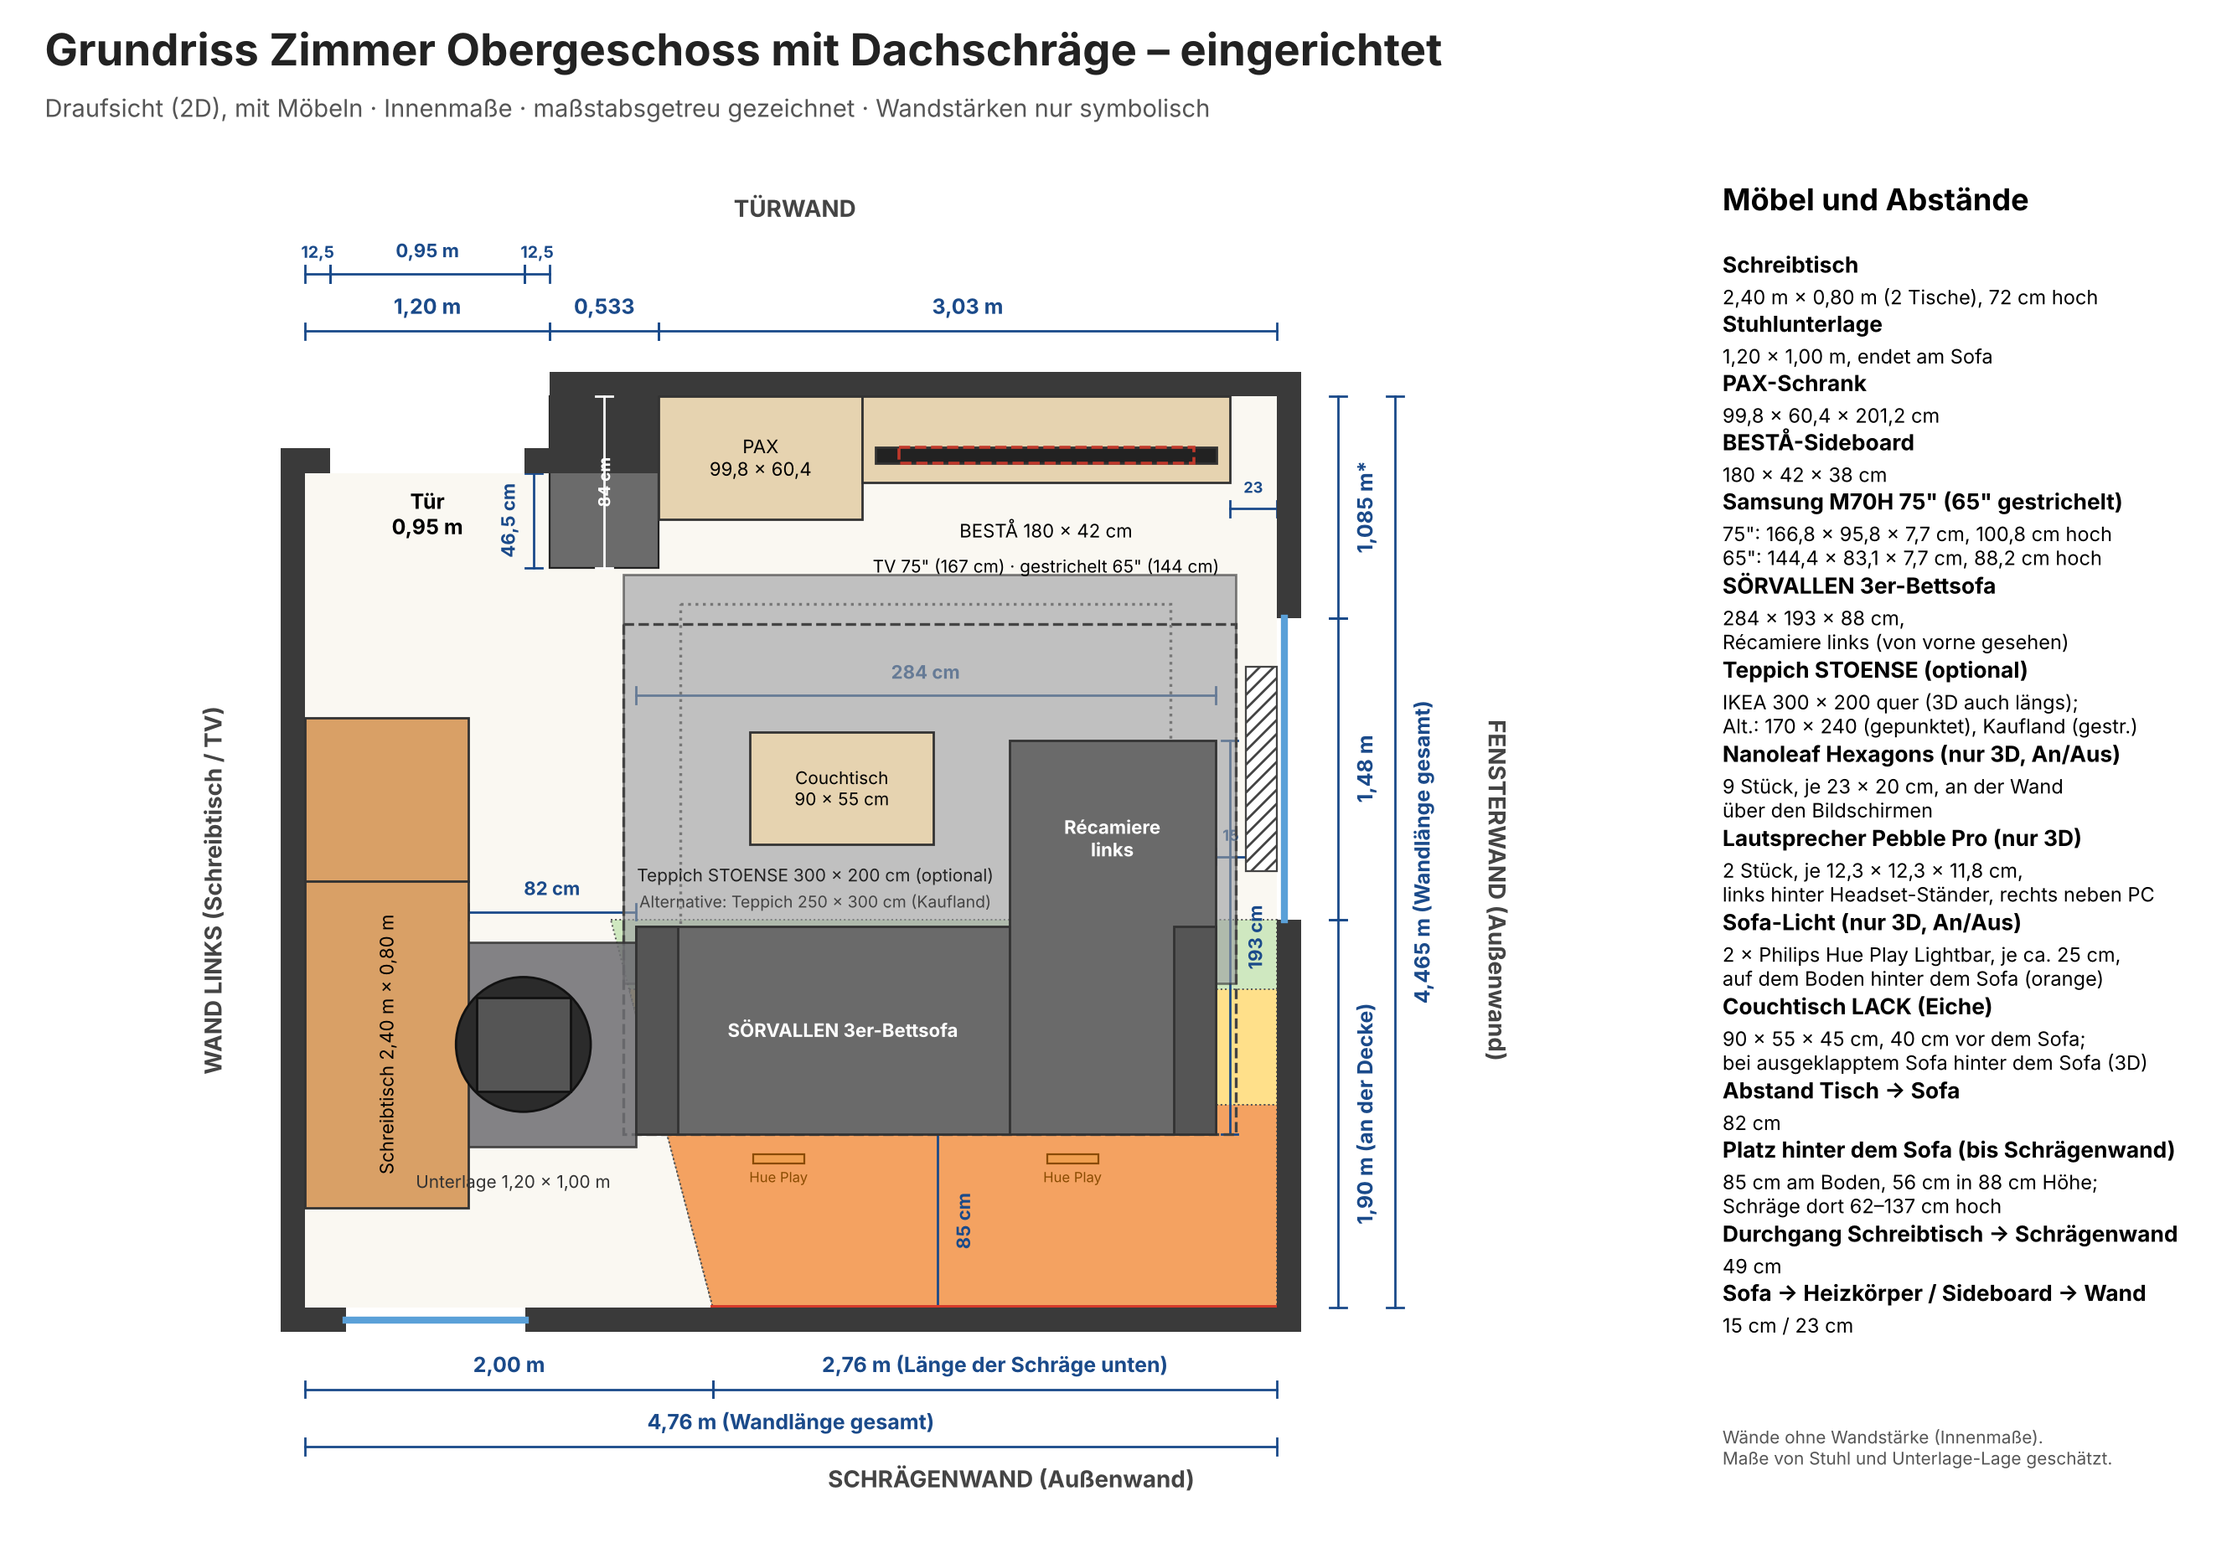
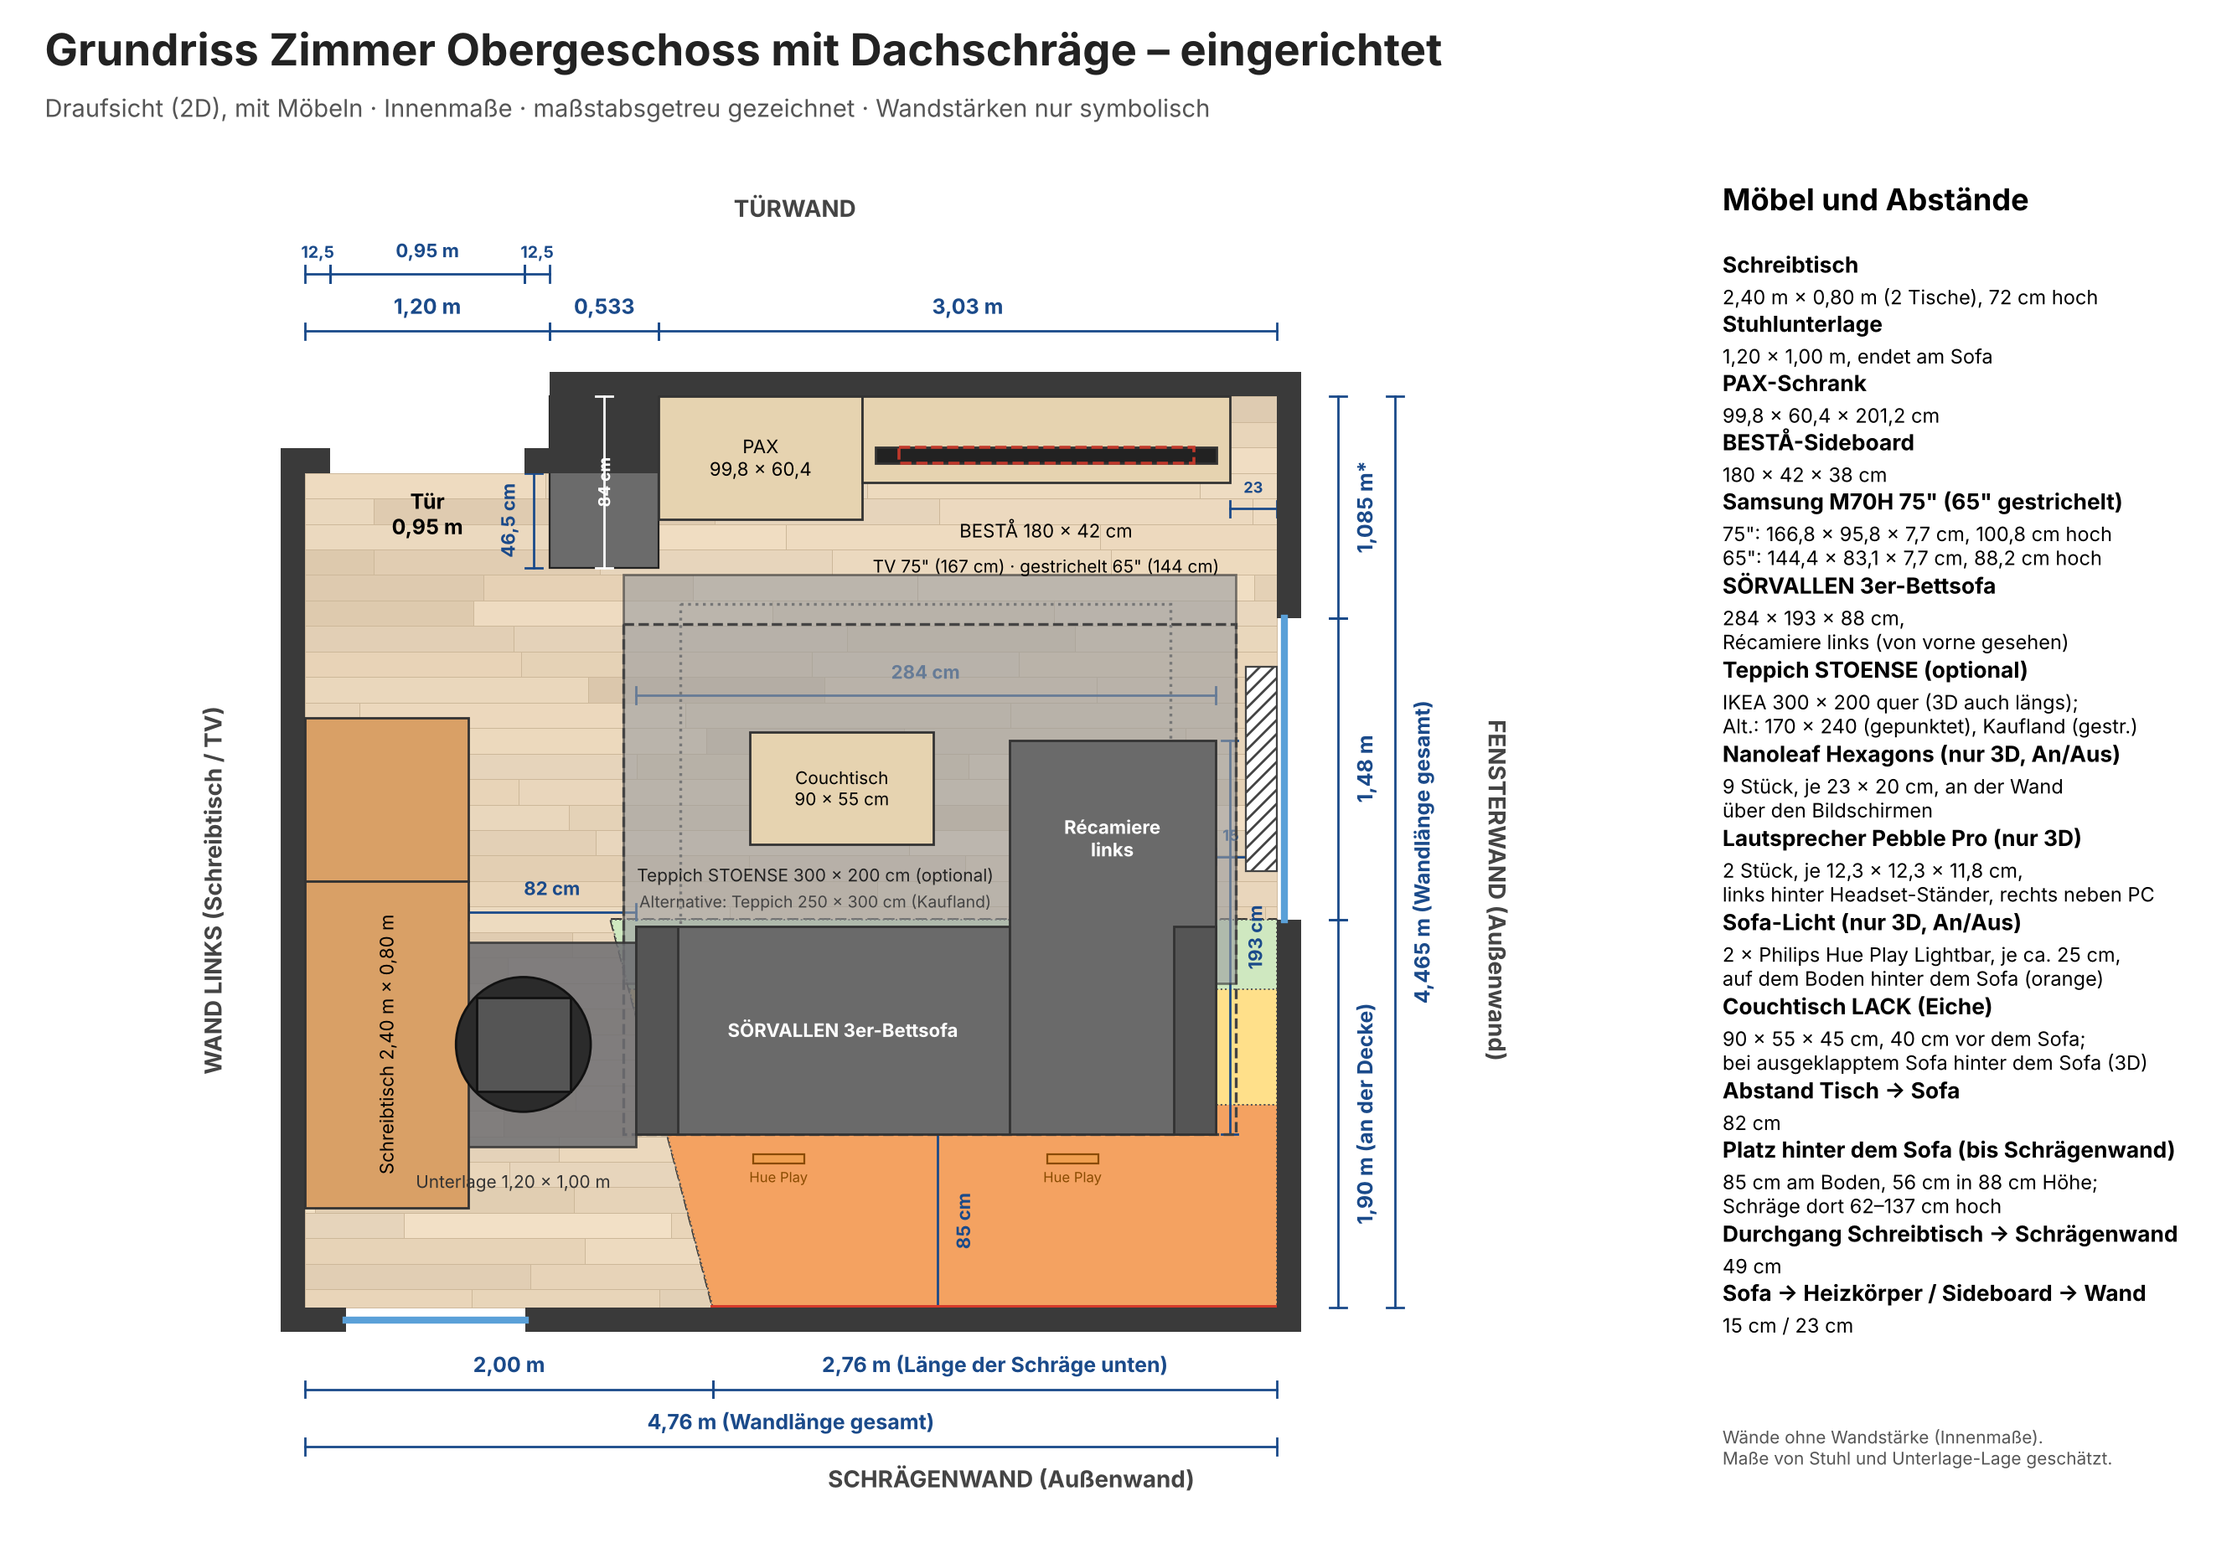
Dielenboden (3D-Textur, Grundriss, Titelbild)
Claude-Session: https://claude.ai/code/session_01Hf3Bkowp5NFKLbRns8Nosg

Changed region(s): [[0.1243, 0.2495, 0.5906, 0.6237], [0.1243, 0.7172, 0.3419, 0.8419], [0.4041, 0.4677, 0.4663, 0.5301]]

diff --git a/leer.html b/leer.html
@@ -107,6 +107,24 @@ addTris([[A,B,C]],CS);            // Übergang (Diagonale)
 // Decke (L-Form) und Boden
 addTris(shapeTris([[0,0],[1.733,0],[1.733,-NY],[W,-NY],[W,YS],[BX,YS],[BX,D],[0,D]],null,function(u,v){return [u,v,H];}),0xfbfbf8);
 var floor=addTris(shapeTris([[0,0],[1.733,0],[1.733,-NY],[W,-NY],[W,D],[0,D]],null,function(u,v){return [u,v,0];}),0xb08455);
+// Dielenboden (Textur im Browser erzeugt): Dielen 12,5 cm breit, laufen Richtung Schreibtischwand (entlang x)
+try{(function(){
+  var cw=1024,ch=960,PPX=cw/W,c=document.createElement('canvas');c.width=cw;c.height=ch;var g=c.getContext('2d');
+  var sd=11;function rnd(){sd|=0;sd=sd+0x6D2B79F5|0;var t=Math.imul(sd^sd>>>15,1|sd);t=t+Math.imul(t^t>>>7,61|t)^t;return((t^t>>>14)>>>0)/4294967296;}
+  g.fillStyle='#5a3a22';g.fillRect(0,0,cw,ch);
+  var pw=0.125*PPX,rows=Math.ceil(ch/pw);
+  for(var r=0;r<rows;r++){var y0=r*pw,cur=-rnd()*1.0*PPX;
+    while(cur<cw){var ln=(0.9+rnd()*0.8)*PPX,x0=Math.max(0,cur),x1=Math.min(cw,cur+ln);cur+=ln;if(x1<=x0)continue;
+      var t=rnd(),k=0.93+0.14*rnd(),R=Math.round((130+20*t)*k),G=Math.round((87+13*t)*k),B=Math.round((52+7*t)*k);
+      g.fillStyle='rgb('+R+','+G+','+B+')';g.fillRect(x0,y0,x1-x0,pw);
+      for(var i=0;i<9;i++){var gy=y0+rnd()*pw,l=(0.15+rnd()*0.6)*(x1-x0),gx=x0+rnd()*((x1-x0)-l);g.fillStyle=rnd()<0.5?'rgba(40,20,8,0.16)':'rgba(255,220,170,0.10)';g.fillRect(gx,gy,l,1+rnd()*1.5);}
+      g.fillStyle='rgba(30,15,5,0.55)';g.fillRect(x0,y0,x1-x0,1.5);g.fillRect(x0,y0,1.5,pw);}}
+  var tx=new THREE.CanvasTexture(c);tx.anisotropy=8;
+  var pa=floor.geometry.getAttribute('position'),uv=[];
+  for(var i=0;i<pa.count;i++){uv.push(pa.getX(i)/W,(pa.getZ(i)+NY)/(D+NY));}
+  floor.geometry.setAttribute('uv',new THREE.Float32BufferAttribute(uv,2));
+  floor.material.map=tx;floor.material.color.setHex(0xffffff);floor.material.needsUpdate=true;
+})();}catch(e){}
 // Zonen
 var zones=new THREE.Group();zones.visible=false;scene.add(zones);
 function dAt(h){return (h-K)*SD/(H-K);}

diff --git a/leer_mobil.html b/leer_mobil.html
@@ -124,6 +124,24 @@ addTris([[A,B,C]],CS);            // Übergang (Diagonale)
 // Decke (L-Form) und Boden
 addTris(shapeTris([[0,0],[1.733,0],[1.733,-NY],[W,-NY],[W,YS],[BX,YS],[BX,D],[0,D]],null,function(u,v){return [u,v,H];}),0xfbfbf8);
 var floor=addTris(shapeTris([[0,0],[1.733,0],[1.733,-NY],[W,-NY],[W,D],[0,D]],null,function(u,v){return [u,v,0];}),0xb08455);
+// Dielenboden (Textur im Browser erzeugt): Dielen 12,5 cm breit, laufen Richtung Schreibtischwand (entlang x)
+try{(function(){
+  var cw=1024,ch=960,PPX=cw/W,c=document.createElement('canvas');c.width=cw;c.height=ch;var g=c.getContext('2d');
+  var sd=11;function rnd(){sd|=0;sd=sd+0x6D2B79F5|0;var t=Math.imul(sd^sd>>>15,1|sd);t=t+Math.imul(t^t>>>7,61|t)^t;return((t^t>>>14)>>>0)/4294967296;}
+  g.fillStyle='#5a3a22';g.fillRect(0,0,cw,ch);
+  var pw=0.125*PPX,rows=Math.ceil(ch/pw);
+  for(var r=0;r<rows;r++){var y0=r*pw,cur=-rnd()*1.0*PPX;
+    while(cur<cw){var ln=(0.9+rnd()*0.8)*PPX,x0=Math.max(0,cur),x1=Math.min(cw,cur+ln);cur+=ln;if(x1<=x0)continue;
+      var t=rnd(),k=0.93+0.14*rnd(),R=Math.round((130+20*t)*k),G=Math.round((87+13*t)*k),B=Math.round((52+7*t)*k);
+      g.fillStyle='rgb('+R+','+G+','+B+')';g.fillRect(x0,y0,x1-x0,pw);
+      for(var i=0;i<9;i++){var gy=y0+rnd()*pw,l=(0.15+rnd()*0.6)*(x1-x0),gx=x0+rnd()*((x1-x0)-l);g.fillStyle=rnd()<0.5?'rgba(40,20,8,0.16)':'rgba(255,220,170,0.10)';g.fillRect(gx,gy,l,1+rnd()*1.5);}
+      g.fillStyle='rgba(30,15,5,0.55)';g.fillRect(x0,y0,x1-x0,1.5);g.fillRect(x0,y0,1.5,pw);}}
+  var tx=new THREE.CanvasTexture(c);tx.anisotropy=8;
+  var pa=floor.geometry.getAttribute('position'),uv=[];
+  for(var i=0;i<pa.count;i++){uv.push(pa.getX(i)/W,(pa.getZ(i)+NY)/(D+NY));}
+  floor.geometry.setAttribute('uv',new THREE.Float32BufferAttribute(uv,2));
+  floor.material.map=tx;floor.material.color.setHex(0xffffff);floor.material.needsUpdate=true;
+})();}catch(e){}
 // Zonen
 var zones=new THREE.Group();zones.visible=false;scene.add(zones);
 function dAt(h){return (h-K)*SD/(H-K);}

diff --git a/eingerichtet.html b/eingerichtet.html
@@ -163,6 +163,24 @@ var slopeObjs=room.children.slice(slopeS);
 // Decke (L-Form) und Boden
 addTris(shapeTris([[0,0],[1.733,0],[1.733,-NY],[W,-NY],[W,YS],[BX,YS],[BX,D],[0,D]],null,function(u,v){return [u,v,H];}),0xfbfbf8);
 var floor=addTris(shapeTris([[0,0],[1.733,0],[1.733,-NY],[W,-NY],[W,D],[0,D]],null,function(u,v){return [u,v,0];}),0xb08455);
+// Dielenboden (Textur im Browser erzeugt): Dielen 12,5 cm breit, laufen Richtung Schreibtischwand (entlang x)
+try{(function(){
+  var cw=1024,ch=960,PPX=cw/W,c=document.createElement('canvas');c.width=cw;c.height=ch;var g=c.getContext('2d');
+  var sd=11;function rnd(){sd|=0;sd=sd+0x6D2B79F5|0;var t=Math.imul(sd^sd>>>15,1|sd);t=t+Math.imul(t^t>>>7,61|t)^t;return((t^t>>>14)>>>0)/4294967296;}
+  g.fillStyle='#5a3a22';g.fillRect(0,0,cw,ch);
+  var pw=0.125*PPX,rows=Math.ceil(ch/pw);
+  for(var r=0;r<rows;r++){var y0=r*pw,cur=-rnd()*1.0*PPX;
+    while(cur<cw){var ln=(0.9+rnd()*0.8)*PPX,x0=Math.max(0,cur),x1=Math.min(cw,cur+ln);cur+=ln;if(x1<=x0)continue;
+      var t=rnd(),k=0.93+0.14*rnd(),R=Math.round((130+20*t)*k),G=Math.round((87+13*t)*k),B=Math.round((52+7*t)*k);
+      g.fillStyle='rgb('+R+','+G+','+B+')';g.fillRect(x0,y0,x1-x0,pw);
+      for(var i=0;i<9;i++){var gy=y0+rnd()*pw,l=(0.15+rnd()*0.6)*(x1-x0),gx=x0+rnd()*((x1-x0)-l);g.fillStyle=rnd()<0.5?'rgba(40,20,8,0.16)':'rgba(255,220,170,0.10)';g.fillRect(gx,gy,l,1+rnd()*1.5);}
+      g.fillStyle='rgba(30,15,5,0.55)';g.fillRect(x0,y0,x1-x0,1.5);g.fillRect(x0,y0,1.5,pw);}}
+  var tx=new THREE.CanvasTexture(c);tx.anisotropy=8;
+  var pa=floor.geometry.getAttribute('position'),uv=[];
+  for(var i=0;i<pa.count;i++){uv.push(pa.getX(i)/W,(pa.getZ(i)+NY)/(D+NY));}
+  floor.geometry.setAttribute('uv',new THREE.Float32BufferAttribute(uv,2));
+  floor.material.map=tx;floor.material.color.setHex(0xffffff);floor.material.needsUpdate=true;
+})();}catch(e){}
 // Zonen
 var zones=new THREE.Group();zones.visible=false;scene.add(zones);
 function dAt(h){return (h-K)*SD/(H-K);}

diff --git a/eingerichtet_mobil.html b/eingerichtet_mobil.html
@@ -176,6 +176,24 @@ var slopeObjs=room.children.slice(slopeS);
 // Decke (L-Form) und Boden
 addTris(shapeTris([[0,0],[1.733,0],[1.733,-NY],[W,-NY],[W,YS],[BX,YS],[BX,D],[0,D]],null,function(u,v){return [u,v,H];}),0xfbfbf8);
 var floor=addTris(shapeTris([[0,0],[1.733,0],[1.733,-NY],[W,-NY],[W,D],[0,D]],null,function(u,v){return [u,v,0];}),0xb08455);
+// Dielenboden (Textur im Browser erzeugt): Dielen 12,5 cm breit, laufen Richtung Schreibtischwand (entlang x)
+try{(function(){
+  var cw=1024,ch=960,PPX=cw/W,c=document.createElement('canvas');c.width=cw;c.height=ch;var g=c.getContext('2d');
+  var sd=11;function rnd(){sd|=0;sd=sd+0x6D2B79F5|0;var t=Math.imul(sd^sd>>>15,1|sd);t=t+Math.imul(t^t>>>7,61|t)^t;return((t^t>>>14)>>>0)/4294967296;}
+  g.fillStyle='#5a3a22';g.fillRect(0,0,cw,ch);
+  var pw=0.125*PPX,rows=Math.ceil(ch/pw);
+  for(var r=0;r<rows;r++){var y0=r*pw,cur=-rnd()*1.0*PPX;
+    while(cur<cw){var ln=(0.9+rnd()*0.8)*PPX,x0=Math.max(0,cur),x1=Math.min(cw,cur+ln);cur+=ln;if(x1<=x0)continue;
+      var t=rnd(),k=0.93+0.14*rnd(),R=Math.round((130+20*t)*k),G=Math.round((87+13*t)*k),B=Math.round((52+7*t)*k);
+      g.fillStyle='rgb('+R+','+G+','+B+')';g.fillRect(x0,y0,x1-x0,pw);
+      for(var i=0;i<9;i++){var gy=y0+rnd()*pw,l=(0.15+rnd()*0.6)*(x1-x0),gx=x0+rnd()*((x1-x0)-l);g.fillStyle=rnd()<0.5?'rgba(40,20,8,0.16)':'rgba(255,220,170,0.10)';g.fillRect(gx,gy,l,1+rnd()*1.5);}
+      g.fillStyle='rgba(30,15,5,0.55)';g.fillRect(x0,y0,x1-x0,1.5);g.fillRect(x0,y0,1.5,pw);}}
+  var tx=new THREE.CanvasTexture(c);tx.anisotropy=8;
+  var pa=floor.geometry.getAttribute('position'),uv=[];
+  for(var i=0;i<pa.count;i++){uv.push(pa.getX(i)/W,(pa.getZ(i)+NY)/(D+NY));}
+  floor.geometry.setAttribute('uv',new THREE.Float32BufferAttribute(uv,2));
+  floor.material.map=tx;floor.material.color.setHex(0xffffff);floor.material.needsUpdate=true;
+})();}catch(e){}
 // Zonen
 var zones=new THREE.Group();zones.visible=false;scene.add(zones);
 function dAt(h){return (h-K)*SD/(H-K);}

diff --git a/interaktiv.html b/interaktiv.html
@@ -163,6 +163,24 @@ var slopeObjs=room.children.slice(slopeS);
 // Decke (L-Form) und Boden
 addTris(shapeTris([[0,0],[1.733,0],[1.733,-NY],[W,-NY],[W,YS],[BX,YS],[BX,D],[0,D]],null,function(u,v){return [u,v,H];}),0xfbfbf8);
 var floor=addTris(shapeTris([[0,0],[1.733,0],[1.733,-NY],[W,-NY],[W,D],[0,D]],null,function(u,v){return [u,v,0];}),0xb08455);
+// Dielenboden (Textur im Browser erzeugt): Dielen 12,5 cm breit, laufen Richtung Schreibtischwand (entlang x)
+try{(function(){
+  var cw=1024,ch=960,PPX=cw/W,c=document.createElement('canvas');c.width=cw;c.height=ch;var g=c.getContext('2d');
+  var sd=11;function rnd(){sd|=0;sd=sd+0x6D2B79F5|0;var t=Math.imul(sd^sd>>>15,1|sd);t=t+Math.imul(t^t>>>7,61|t)^t;return((t^t>>>14)>>>0)/4294967296;}
+  g.fillStyle='#5a3a22';g.fillRect(0,0,cw,ch);
+  var pw=0.125*PPX,rows=Math.ceil(ch/pw);
+  for(var r=0;r<rows;r++){var y0=r*pw,cur=-rnd()*1.0*PPX;
+    while(cur<cw){var ln=(0.9+rnd()*0.8)*PPX,x0=Math.max(0,cur),x1=Math.min(cw,cur+ln);cur+=ln;if(x1<=x0)continue;
+      var t=rnd(),k=0.93+0.14*rnd(),R=Math.round((130+20*t)*k),G=Math.round((87+13*t)*k),B=Math.round((52+7*t)*k);
+      g.fillStyle='rgb('+R+','+G+','+B+')';g.fillRect(x0,y0,x1-x0,pw);
+      for(var i=0;i<9;i++){var gy=y0+rnd()*pw,l=(0.15+rnd()*0.6)*(x1-x0),gx=x0+rnd()*((x1-x0)-l);g.fillStyle=rnd()<0.5?'rgba(40,20,8,0.16)':'rgba(255,220,170,0.10)';g.fillRect(gx,gy,l,1+rnd()*1.5);}
+      g.fillStyle='rgba(30,15,5,0.55)';g.fillRect(x0,y0,x1-x0,1.5);g.fillRect(x0,y0,1.5,pw);}}
+  var tx=new THREE.CanvasTexture(c);tx.anisotropy=8;
+  var pa=floor.geometry.getAttribute('position'),uv=[];
+  for(var i=0;i<pa.count;i++){uv.push(pa.getX(i)/W,(pa.getZ(i)+NY)/(D+NY));}
+  floor.geometry.setAttribute('uv',new THREE.Float32BufferAttribute(uv,2));
+  floor.material.map=tx;floor.material.color.setHex(0xffffff);floor.material.needsUpdate=true;
+})();}catch(e){}
 // Zonen
 var zones=new THREE.Group();zones.visible=false;scene.add(zones);
 function dAt(h){return (h-K)*SD/(H-K);}

diff --git a/interaktiv_mobil.html b/interaktiv_mobil.html
@@ -176,6 +176,24 @@ var slopeObjs=room.children.slice(slopeS);
 // Decke (L-Form) und Boden
 addTris(shapeTris([[0,0],[1.733,0],[1.733,-NY],[W,-NY],[W,YS],[BX,YS],[BX,D],[0,D]],null,function(u,v){return [u,v,H];}),0xfbfbf8);
 var floor=addTris(shapeTris([[0,0],[1.733,0],[1.733,-NY],[W,-NY],[W,D],[0,D]],null,function(u,v){return [u,v,0];}),0xb08455);
+// Dielenboden (Textur im Browser erzeugt): Dielen 12,5 cm breit, laufen Richtung Schreibtischwand (entlang x)
+try{(function(){
+  var cw=1024,ch=960,PPX=cw/W,c=document.createElement('canvas');c.width=cw;c.height=ch;var g=c.getContext('2d');
+  var sd=11;function rnd(){sd|=0;sd=sd+0x6D2B79F5|0;var t=Math.imul(sd^sd>>>15,1|sd);t=t+Math.imul(t^t>>>7,61|t)^t;return((t^t>>>14)>>>0)/4294967296;}
+  g.fillStyle='#5a3a22';g.fillRect(0,0,cw,ch);
+  var pw=0.125*PPX,rows=Math.ceil(ch/pw);
+  for(var r=0;r<rows;r++){var y0=r*pw,cur=-rnd()*1.0*PPX;
+    while(cur<cw){var ln=(0.9+rnd()*0.8)*PPX,x0=Math.max(0,cur),x1=Math.min(cw,cur+ln);cur+=ln;if(x1<=x0)continue;
+      var t=rnd(),k=0.93+0.14*rnd(),R=Math.round((130+20*t)*k),G=Math.round((87+13*t)*k),B=Math.round((52+7*t)*k);
+      g.fillStyle='rgb('+R+','+G+','+B+')';g.fillRect(x0,y0,x1-x0,pw);
+      for(var i=0;i<9;i++){var gy=y0+rnd()*pw,l=(0.15+rnd()*0.6)*(x1-x0),gx=x0+rnd()*((x1-x0)-l);g.fillStyle=rnd()<0.5?'rgba(40,20,8,0.16)':'rgba(255,220,170,0.10)';g.fillRect(gx,gy,l,1+rnd()*1.5);}
+      g.fillStyle='rgba(30,15,5,0.55)';g.fillRect(x0,y0,x1-x0,1.5);g.fillRect(x0,y0,1.5,pw);}}
+  var tx=new THREE.CanvasTexture(c);tx.anisotropy=8;
+  var pa=floor.geometry.getAttribute('position'),uv=[];
+  for(var i=0;i<pa.count;i++){uv.push(pa.getX(i)/W,(pa.getZ(i)+NY)/(D+NY));}
+  floor.geometry.setAttribute('uv',new THREE.Float32BufferAttribute(uv,2));
+  floor.material.map=tx;floor.material.color.setHex(0xffffff);floor.material.needsUpdate=true;
+})();}catch(e){}
 // Zonen
 var zones=new THREE.Group();zones.visible=false;scene.add(zones);
 function dAt(h){return (h-K)*SD/(H-K);}

diff --git a/einkaufsliste.html b/einkaufsliste.html
@@ -44,7 +44,7 @@ h2 span{font-weight:500;color:var(--muted);font-size:13px}
 <body>
 <main>
 <a class="back" href="index.html">← Zur Übersicht</a>
-<img class="banner" src="banner4.jpg" alt="Zimmereinrichtung OG" width="2000" height="528">
+<img class="banner" src="banner5.jpg" alt="Zimmereinrichtung OG" width="2000" height="528">
 <h1>Einkaufsliste</h1>
 <p class="sub">Was noch ins Zimmer kommt – mit Maßen und Link zum jeweiligen Shop.</p>
 

diff --git a/index.html b/index.html
@@ -29,7 +29,7 @@ footer{margin-top:28px;color:var(--muted);font-size:13px}
 </head>
 <body>
 <main>
-<img class="banner" src="banner4.jpg" alt="Zimmereinrichtung OG" width="2000" height="528">
+<img class="banner" src="banner5.jpg" alt="Zimmereinrichtung OG" width="2000" height="528">
 <h1>Zimmer Obergeschoss – 3D-Ansichten</h1>
 <p class="sub">Dachzimmer mit Schräge als drehbares 3D-Modell. Ziehen = drehen, Mausrad / zwei Finger = zoomen.</p>
 
